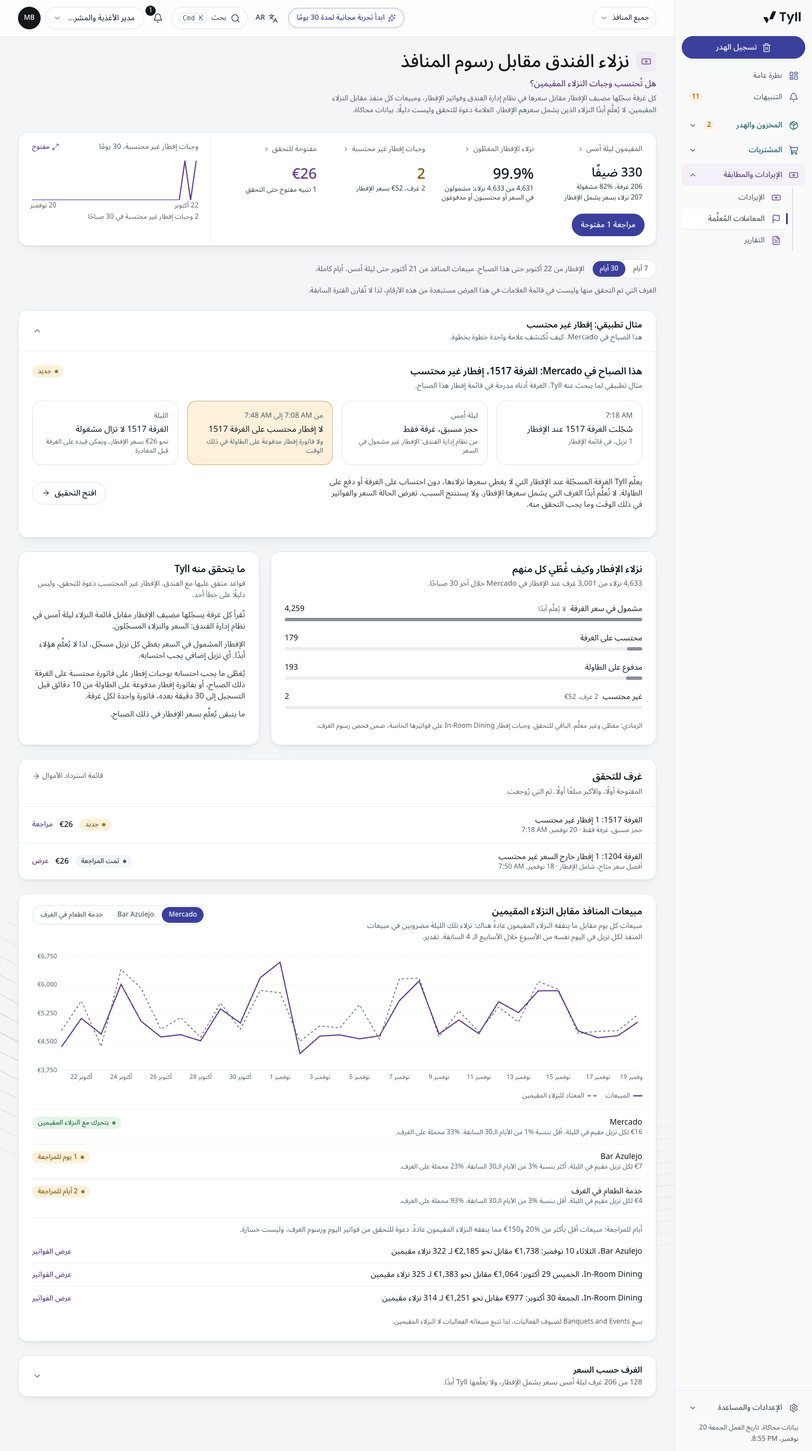
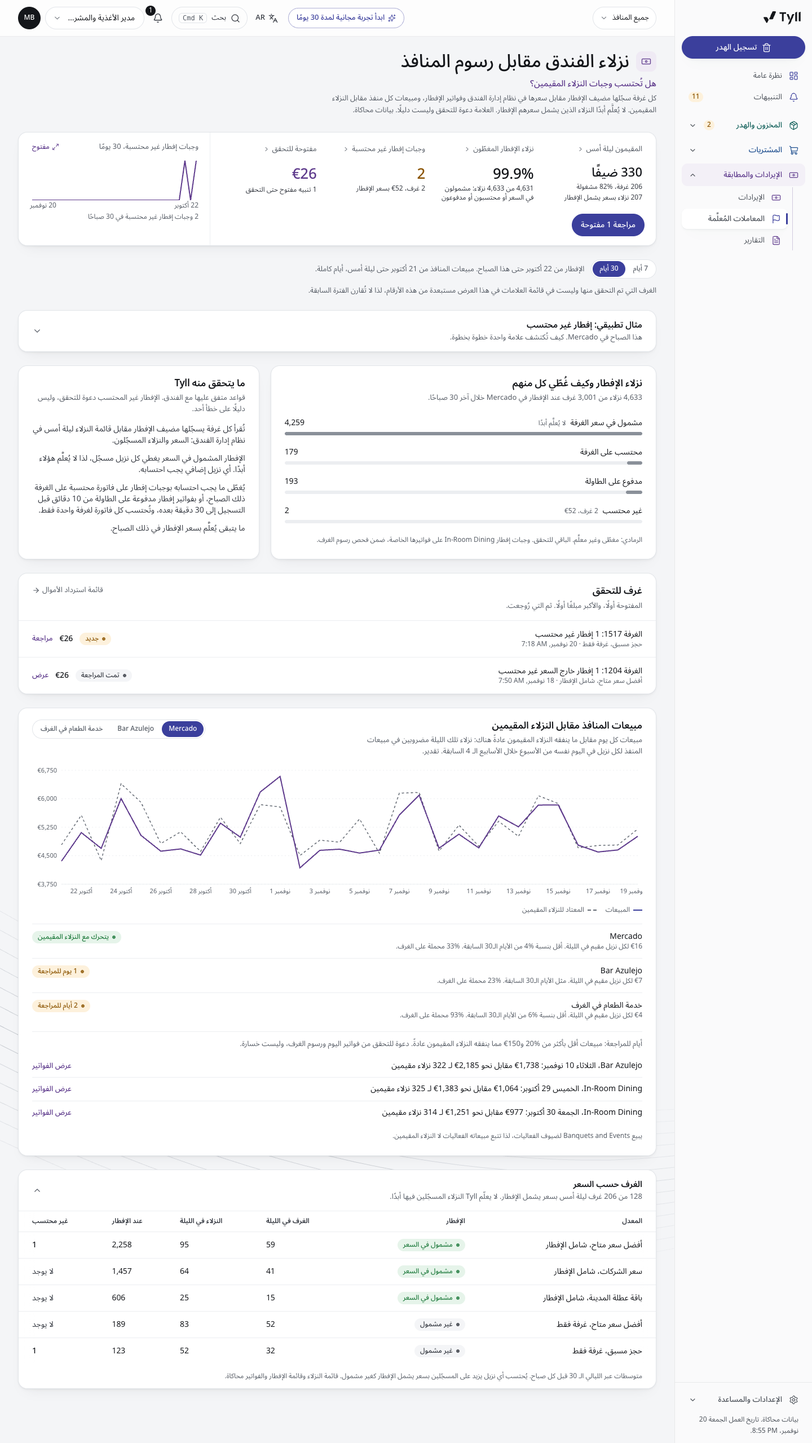
Feature 7: review fixes, outlet period before from the first day with sales, guests of one room paying separately, See the bills on one outlet, clearer rate headline and empty state

diff --git a/src/lib/__tests__/guests.test.ts b/src/lib/__tests__/guests.test.ts
@@ -23,7 +23,7 @@ const { snapshotFor } = await import("../server/snapshot");
 const { OUTLETS, PROPERTIES, userById } = await import("../data/catalog");
 const { can } = await import("../domain/access");
 const { activeItem } = await import("../nav");
-const { DEMO_TODAY, addDays, eachDay, rel } = await import("../util");
+const { DATA_START, DEMO_TODAY, addDays, eachDay, rel } = await import("../util");
 type Order = import("../types").Order;
 type InHouseRoom = import("../types").InHouseRoom;
 type BreakfastVisit = import("../types").BreakfastVisit;
@@ -91,6 +91,22 @@ describe("the breakfast rule", () => {
     expect(two.get("BF-MER-T-002")).toMatchObject({ paid: 0, notCharged: 2 });
   });
 
+  it("lets guests of one room pay separately: two bills for 1 paid at the table cover a room of 2", () => {
+    const one = (id: string, openMin: number) => bill({ id, payment: "card", room: undefined, openMin, units: 1 });
+    const m = match([visit()], [stay()], [one("MER-T-001", T(8, 2)), one("MER-T-002", T(8, 6))]);
+    expect(m).toMatchObject({ paid: 2, notCharged: 0 });
+    expect([...m.bills].sort()).toEqual(["MER-T-001", "MER-T-002"]);
+    expect(G.detectBreakfastNotCharged([visit()], [stay()], [one("MER-T-001", T(8, 2)), one("MER-T-002", T(8, 6))])).toEqual([]);
+    // A bill another room needed exactly stays with that room: the second guest is flagged, and the bill is named as matched.
+    const rooms = [visit(), visit({ id: "BF-MER-T-002", room: "1610", guests: 1, min: T(8, 6) })];
+    const both = G.matchBreakfast(rooms, [stay(), stay({ room: "1610", guests: 1 })], [one("MER-T-001", T(8, 1)), one("MER-T-002", T(8, 6))]);
+    expect(both.get("BF-MER-T-002")).toMatchObject({ paid: 1, notCharged: 0, bills: ["MER-T-002"] });
+    expect(both.get("BF-MER-T-001")).toMatchObject({ paid: 1, notCharged: 1, bills: ["MER-T-001"] });
+    const flag = G.detectBreakfastNotCharged(rooms, [stay(), stay({ room: "1610", guests: 1 })], [one("MER-T-001", T(8, 1)), one("MER-T-002", T(8, 6))]);
+    expect(flag.map((e) => e.id)).toEqual(["EX-BF-MER-T-001"]);
+    expect(G.nearbyBreakfastFact(flag[0].breakfast!)).toBe("1 breakfast bill was paid at the table from 7:50 AM to 8:30 AM, and it is matched to another room on the breakfast list.");
+  });
+
   it("gives a bill for exactly the breakfasts left before a nearer one for a different number", () => {
     const rooms = [visit({ guests: 1 }), visit({ id: "BF-MER-T-002", room: "1610", guests: 2, min: T(8, 2) })];
     const bills = [bill({ id: "MER-T-001", payment: "card", room: undefined, openMin: T(8, 3), units: 2 }), bill({ id: "MER-T-002", payment: "card", room: undefined, openMin: T(8, 9), units: 1 })];
@@ -112,6 +128,12 @@ describe("the breakfast rule", () => {
     expect(match([visit()], [stay({ room: "1999" })], [])).toMatchObject({ rate: null, included: 0, notCharged: 2 });
     // Tonight's list is not last night's.
     expect(match([visit()], [stay({ date: DAY, rate: "BAR-BB" })], [])).toMatchObject({ rate: null, notCharged: 2 });
+  });
+
+  it("leaves no bill paid at the table near a flagged room that no room took", () => {
+    for (const e of d0.exceptions.filter((x) => x.type === "breakfast_not_charged")) {
+      expect(e.breakfast!.nearby.every((b) => !!b.matchedTo), e.id).toBe(true);
+    }
   });
 
   it("adds up: guests at breakfast are in the rate, charged, paid or not charged", () => {
@@ -353,6 +375,30 @@ describe("outlet sales against the guests in house", () => {
       expect(o.below).toBe(rows.filter((x) => x.below).length);
     }
     expect(r.belowDays.every((x) => x.below && x.date >= r.outletFrom)).toBe(true);
+  });
+
+  it("compares with the 30 days before from the first day with sales on record, never the empty night before it", () => {
+    const r = guestsCheckFor(fnb, {});
+    if (!r.ok) throw new Error(r.error);
+    expect(addDays(r.outletFrom, -30) < DATA_START).toBe(true);
+    expect(r.outletBeforeFrom).toBe(DATA_START);
+    const before = eachDay({ from: DATA_START, to: addDays(r.outletFrom, -1) });
+    // The in-house list holds the night before the data starts, with guests and no bills: it is left out.
+    expect(G.guestsOn(d0.stays, addDays(DATA_START, -1))).toBeGreaterThan(0);
+    expect(d0.orders.some((o) => o.date < DATA_START)).toBe(false);
+    for (const o of r.outlets) {
+      const rows = G.outletDays(d0.orders, d0.stays, [o.outletId], before);
+      expect(rows.every((x) => x.sales > 0), o.outletId).toBe(true);
+      expect(o.guestNightsBefore).toBe(rows.reduce((t, x) => t + x.guests, 0));
+      expect(o.salesBefore).toBeCloseTo(rows.reduce((t, x) => t + x.sales, 0), 2);
+    }
+    // Bar Azulejo sold a little less per guest in house than in the 30 days before; counting the empty night read as up.
+    const bar = r.outlets.find((o) => o.outletId === "lis-lobby")!;
+    expect(bar.sales / bar.guestNights).toBeLessThan(bar.salesBefore / bar.guestNightsBefore);
+    // The 7 day view is the same length before, well inside the data.
+    const w = guestsCheckFor(fnb, { days: "7" });
+    if (!w.ok) throw new Error(w.error);
+    expect(w.outletBeforeFrom).toBe(addDays(w.outletFrom, -7));
   });
 });
 

diff --git a/src/components/money/guests.tsx b/src/components/money/guests.tsx
@@ -11,6 +11,7 @@ import { BarList, StripTrend, TrendChart } from "@/components/charts";
 import { Section } from "@/components/disclosure";
 import { Badge, Button, EmptyState, Note, Panel, Segmented, Skeleton, SummaryBar, TableWrap, Td, Th, WidgetError, cn, linkButton, rowClass, textLink } from "@/components/ui";
 import { outletLabel } from "@/lib/data/catalog";
+import { canSeeOutlet } from "@/lib/domain/access";
 import { rateName } from "@/lib/domain/guests";
 import { exceptionInSel } from "@/lib/domain/metrics";
 import { versus } from "@/lib/domain/trends";
@@ -38,7 +39,7 @@ function shareVersus(now: number, before: number | null, period: string): { text
 export function HotelGuests() {
   const router = useRouter();
   const params = useSearchParams();
-  const { sel, money } = useView();
+  const { sel, money, user } = useView();
   const all = useInvestigations();
   const days = params.get("days") === "7" ? 7 : 30;
   const { data, error } = useApi<GuestsCheck>(`/api/money/guests?days=${days}&outlets=${sel.outletIds.join(",")}`);
@@ -157,7 +158,7 @@ export function HotelGuests() {
               <ul className="space-y-3 text-sm text-graphite">
                 <li>Each room the breakfast host ticks in is read against last night&rsquo;s in-house list in the PMS: the rate, and the guests registered.</li>
                 <li>Breakfast in the rate covers every registered guest, so those guests are never flagged. A guest beyond them is to charge.</li>
-                <li>{`To charge is covered by breakfasts on a bill charged to the room that morning, or a breakfast bill paid at the table from ${R.paidBefore} minutes before the tick to ${R.paidAfter} minutes after, one bill per room.`}</li>
+                <li>{`To charge is covered by breakfasts on a bill charged to the room that morning, or by breakfast bills paid at the table from ${R.paidBefore} minutes before the tick to ${R.paidAfter} minutes after, each bill counted for one room only.`}</li>
                 <li>Whatever is left is flagged, at the breakfast price that morning.</li>
               </ul>
             </Panel>
@@ -194,7 +195,9 @@ export function HotelGuests() {
           </div>
         </>
       ) : (
-        <EmptyState title="Breakfast is served at Mercado">Choose Mercado in the outlet selector to see the breakfast list against the rooms&rsquo; rates. Outlet sales against the guests in house are below.</EmptyState>
+        canSeeOutlet(user, R.breakfastOutletId)
+          ? <EmptyState title={`Breakfast is served at ${outletLabel(R.breakfastOutletId)}`}>{`Choose ${outletLabel(R.breakfastOutletId)} in the outlet selector to see the breakfast list against the rooms’ rates. Outlet sales against the guests in house are below.`}</EmptyState>
+          : <EmptyState title={`Breakfast is checked at ${outletLabel(R.breakfastOutletId)}`}>Outlet sales against the guests in house are below.</EmptyState>
       )}
 
       {compared.length > 0 && (
@@ -234,7 +237,7 @@ export function HotelGuests() {
                   {belowShown.map((d) => (
                     <li key={`${d.outletId}-${d.date}`} className="flex flex-col gap-1 py-2.5 sm:flex-row sm:items-baseline sm:justify-between sm:gap-4">
                       <span className="min-w-0 text-sm text-ink">{`${outletLabel(d.outletId)}, ${fmtDate(d.date, true)}: ${money(d.sales)} against about ${money(d.expected ?? 0)} for ${guests(d.guests)} in house`}</span>
-                      <Link prefetch={false} href={`/money?tab=orders&date=${d.date}`} className={cn(textLink, "shrink-0")}>See the bills</Link>
+                      <Link prefetch={false} href={`/money?tab=orders&date=${d.date}&outlet=${d.outletId}&from=guests`} className={cn(textLink, "shrink-0")}>See the bills</Link>
                     </li>
                   ))}
                 </ul>
@@ -247,7 +250,7 @@ export function HotelGuests() {
       )}
 
       <div id="guests-rates" className="scroll-mt-24">
-        <Section id="guests.rates" forceOpen={params.get("open") === "rates"} flush title="Rooms by rate" summary={`${fmtNum(ln.withBreakfast)} of ${rooms(ln.rooms)} last night on a rate with breakfast, which Tyll never flags.`}>
+        <Section id="guests.rates" forceOpen={params.get("open") === "rates"} flush title="Rooms by rate" summary={`${fmtNum(ln.withBreakfast)} of ${rooms(ln.rooms)} last night on a rate with breakfast. Tyll never flags their registered guests.`}>
           <ul className="divide-y divide-hair sm:hidden">
             {data.rates.map((r) => (
               <li key={r.code} className="px-5 py-3.5">

diff --git a/src/app/money/page.tsx b/src/app/money/page.tsx
@@ -319,9 +319,14 @@ function Orders() {
   // A tag only where there is a case to open.
   const investigations = useInvestigations();
   const cases = useMemo(() => new Set(investigations.map((i) => i.id)), [investigations]);
-  const { sel } = useView();
+  const { sel, user } = useView();
+  const params = useSearchParams();
   // A link can name a day (`&date=`, from hotel guests against outlet charges): it opens on that day, even outside the period.
-  const asked = useSearchParams().get("date");
+  const asked = params.get("date");
+  // ...and an outlet (`&outlet=`): the list opens on that outlet's bills only, when this role may see it.
+  const askedOutlet = params.get("outlet");
+  const [only, setOnly] = useState<string | null>(askedOutlet && canSeeOutlet(user, askedOutlet) ? askedOutlet : null);
+  const fromGuests = params.get("from") === "guests";
   const wanted = asked && /^\d{4}-\d{2}-\d{2}$/.test(asked) && asked >= DATA_START && asked <= DEMO_TODAY ? asked : null;
   const days = useMemo(() => {
     const list = eachDay(sel.range).reverse();
@@ -337,11 +342,11 @@ function Orders() {
   const list = useMemo(() => {
     const term = q.trim().toLowerCase();
     return (fetched?.orders ?? [])
-      .filter((o) => sel.outletIds.includes(o.outletId))
+      .filter((o) => (only ? o.outletId === only : sel.outletIds.includes(o.outletId)))
       .map((o) => ({ o, t: orderTotals(o), flag: detectOrderException(o) }))
       .filter(({ o, t }) => (!onlyChanged || o.voided || t.original - t.net > 0.005) && (!term || `${o.id} ${o.table} ${staffById[o.staffId]?.name ?? ""}`.toLowerCase().includes(term)))
       .sort((a, b) => b.o.openMin - a.o.openMin);
-  }, [fetched, sel.outletIds, onlyChanged, q]);
+  }, [fetched, sel.outletIds, only, onlyChanged, q]);
   return (
     <Panel title="Order history" description="The complete record of each order: created, items entered, tickets sent, changes, final bill and payment." flush>
       <div className="flex flex-wrap items-end gap-2 px-5 pb-4 sm:px-6">
@@ -355,6 +360,13 @@ function Orders() {
           <Search size={15} className="pointer-events-none absolute start-3.5 top-1/2 -translate-y-1/2 text-steel" aria-hidden />
           <input value={q} onChange={(e) => setQ(e.target.value)} placeholder="Order number, table or login" aria-label="Search orders" className="h-10 w-full rounded-full border border-line bg-paper ps-9 pe-3 text-sm placeholder:text-fog hover:border-fog" />
         </div>
+        {(only || fromGuests) && (
+          <p className="flex w-full flex-wrap items-center gap-x-4 gap-y-1 text-[13px] text-steel">
+            {only && <span>{`${outletLabel(only)} only.`}</span>}
+            {only && <button type="button" className={textLink} onClick={() => { setOnly(null); setShown(40); }}>Show every outlet</button>}
+            {fromGuests && <Link prefetch={false} href="/money?tab=guests" className={textLink}>Back to hotel guests against outlet charges</Link>}
+          </p>
+        )}
       </div>
       {fetched === undefined ? <div className="px-5 pb-6 sm:px-6"><EmptyState title="Loading orders" /></div> : list.length === 0 ? <div className="px-5 pb-6 sm:px-6"><EmptyState title="No orders match">Clear the search, or untick the filter to see every order of the day.</EmptyState></div> : (
         <>

diff --git a/src/lib/domain/guests.ts b/src/lib/domain/guests.ts
@@ -89,7 +89,8 @@ const toCharge = (v: BreakfastVisit, stay: InHouseRoom | undefined) => {
  * Matches every room ticked in at breakfast with the room's rate and the breakfast bills of that morning, in a fixed order:
  * guests the rate covers, then breakfasts charged to the room, then a bill paid at the table (no room) opened near the
  * tick: a bill for exactly the breakfasts still to charge first, then more, then fewer, the nearest first within each,
- * each bill serving one room. Whatever is left was not charged. A room that is not on last night's
+ * each bill serving one room. A room with breakfasts still to charge then takes further bills no room took (guests of
+ * one room paying separately). Whatever is left was not charged. A room that is not on last night's
  * list has no rate, so every guest is to charge.
  */
 export function matchBreakfast(visits: readonly BreakfastVisit[], stays: readonly InHouseRoom[], orders: readonly Order[]): Map<string, BreakfastMatch> {
@@ -143,6 +144,26 @@ export function matchBreakfast(visits: readonly BreakfastVisit[], stays: readonl
       m.paid = paid;
       m.bills.push(o.id);
       left.set(v.id, left.get(v.id)! - paid);
+    }
+    // Guests of one room may pay separately: a room with breakfasts still to charge takes further bills paid at the table
+    // in its window that no room took, in the same order (exact fit for what is left first, then nearest), so a room is
+    // flagged only for what no bill covers. No bill taken above changes hands.
+    for (;;) {
+      let best: { v: BreakfastVisit; o: Order; fit: number; gap: number } | null = null;
+      for (const { v, o } of pairs) {
+        const need = left.get(v.id)!;
+        if (!need || taken.has(o.id)) continue;
+        const units = breakfastUnits(o);
+        const c = { v, o, fit: units === need ? 0 : units > need ? 1 : 2, gap: Math.abs(o.openMin - v.min) };
+        if (!best || c.fit < best.fit || (c.fit === best.fit && c.gap < best.gap)) best = c;
+      }
+      if (!best) break;
+      taken.add(best.o.id);
+      const m = out.get(best.v.id)!;
+      const paid = Math.min(left.get(best.v.id)!, breakfastUnits(best.o));
+      m.paid += paid;
+      m.bills.push(best.o.id);
+      left.set(best.v.id, left.get(best.v.id)! - paid);
     }
     for (const v of list) out.get(v.id)!.notCharged = left.get(v.id)!;
   }
@@ -213,7 +234,9 @@ export function nearbyBreakfastFact(e: Pick<BreakfastEvidence, "nearby" | "notCh
   const taken = e.nearby.filter((b) => b.matchedTo).length;
   const opened = `${n} breakfast ${n === 1 ? "bill was" : "bills were"} paid at the table ${window}`;
   if (taken === n) return `${opened}, ${n === 1 ? "and it is" : "and all of them are"} matched to another room on the breakfast list.`;
-  return `${opened}: ${taken} matched to another room on the breakfast list, the others for fewer breakfasts than this room had.`;
+  // A room still to charge takes every bill in its window that no room took, so the others are matched too. Kept so a
+  // sentence never claims more than the evidence holds.
+  return `${opened}: ${taken} matched to another room on the breakfast list.`;
 }
 
 /** One flag per room with breakfasts not charged, valued at the breakfast price that morning. */

diff --git a/src/lib/server/guests.ts b/src/lib/server/guests.ts
@@ -56,7 +56,7 @@ export interface RateRow {
 
 export interface OutletRow {
   outletId: string;
-  /** Sales in the period and the period before, and the guest nights they are set against. */
+  /** Sales in the period and the period before (from the first day with sales on record at the earliest), and the guest nights they are set against. */
   sales: number;
   guestNights: number;
   salesBefore: number;
@@ -75,6 +75,8 @@ export interface GuestsCheck {
   /** Outlet days in the period, whole days to last night. */
   outletFrom: string;
   outletTo: string;
+  /** The first outlet day of the period before: the same length earlier, never before the first day with sales on record. */
+  outletBeforeFrom: string;
   /** The breakfast outlet, when it is in view. */
   breakfastOutlet: string | null;
   lastNight: { date: string; rooms: number; guests: number; occupancy: number; withBreakfast: number; guestsWithBreakfast: number };
@@ -177,7 +179,10 @@ export function guestsCheckFor(user: User, q: { days?: string | null; outlets?: 
   const outletTrend = outletDays(d.orders, d.stays, compared, eachDay({ from: addDays(outletTo, -29), to: outletTo }));
   const span = (a: string, b: string) => outletDays(d.orders, d.stays, compared, eachDay({ from: a, to: b }));
   const now = span(outletFrom, outletTo);
-  const was = span(addDays(outletFrom, -days), addDays(outletFrom, -1));
+  // The period before starts no earlier than the first day with sales on record: the in-house list holds the night before
+  // the data starts, which has guests and no bills, and would pull the earlier sales per guest down.
+  const wasFrom = addDays(outletFrom, -days) < DATA_START ? DATA_START : addDays(outletFrom, -days);
+  const was = span(wasFrom, addDays(outletFrom, -1));
   const outletRows: OutletRow[] = compared.map((outletId) => {
     const a = now.filter((x) => x.outletId === outletId);
     const b = was.filter((x) => x.outletId === outletId);
@@ -186,5 +191,5 @@ export function guestsCheckFor(user: User, q: { days?: string | null; outlets?: 
   });
   const belowDays = now.filter((x) => x.below).sort((a, b) => (b.expected! - b.sales) - (a.expected! - a.sales));
 
-  return { ok: true, days, from, to, outletFrom, outletTo, breakfastOutlet, lastNight, total, before, unlisted, trend, rates, cases: rowsOut, story, outlets: outletRows, outletTrend, belowDays, rules: GUEST_RULES };
+  return { ok: true, days, from, to, outletFrom, outletTo, outletBeforeFrom: wasFrom, breakfastOutlet, lastNight, total, before, unlisted, trend, rates, cases: rowsOut, story, outlets: outletRows, outletTrend, belowDays, rules: GUEST_RULES };
 }

diff --git a/OVERNIGHT_LOG.md b/OVERNIGHT_LOG.md
@@ -93,7 +93,7 @@ Branch `feature/overnight-checks`, started from `feature/visit-tracking` (1fdbe6
 | 4 | Empty bottle scan | DONE | Log: `/waste` (card "Empty wine and spirit bottles" under Log waste; u-fnb, also gm, owner, restaurant manager for own outlets) and the staff app `/staff?do=bottle` (tile "Empty bottle", u-emp, two taps: tile, bottle). Results: `/drinks?open=empties` (Over pouring, Section "Empty bottle scans", opens with the story's scans shown; u-fnb, gm, fc, owner, restaurant manager). Not shown to chef, purchasing, finance (no permission; API 403). Story: Bar Azulejo has scanned every empty since 17 days ago, Mercado since 9 days ago; last Friday's late shift at Bar Azulejo: 7 empties of house red scanned, 1 glass sold, about EUR 315 not billed (the existing house red worked example, now seen in the scans). Review fixes: empties can be logged only at the outlets that scan (Mercado, Bar Azulejo; In-Room Dining answers 409), a stray scan never switches an outlet, the toast says it counts only when the server says so, scans show time and method only (no job), every qualifying shift is listed. Second review: patterns and "Who was on" use closed days only, so a tap today moves today's figures and never the story (Sofia Rahman still stands out, 8 patterns), the open bottle runs from the day an outlet started scanning, the scan list reads in time order, the outlet select has its own row on phones. Screenshots `overnight-screenshots/04-empty-bottles-*.png`. See "Feature 4", "Review fixes (feature 4)" and "Review fixes, second round (feature 4)" below. |
 | 5 | Till rule flags | DONE | `/money?tab=till` ("Till rule check", in the Flagged transactions item's `also`, linked from `/money?tab=flags`; u-fnb, also gm, fc, owner, restaurant managers for their own outlets; chef, purchasing and staff are sent home, API 403). `&open=example` opens the worked example, `&open=bottles` the premium bottles. Story: last night at Mercado a table of 3 paid €124 cash at 10:07 PM, the bill was reopened at 10:31 PM under the same login, 2 lamb chops (marked ready at 9:34 PM) came off, closed again at €56 with no approval: €68, case `EX-MER-<yesterday MMDD>-301`; Mercado's lamb count agrees (usage above sales, 550 g, linked on the case). Second story: Douro reserve red at Bar Azulejo, 11 bottles issued in the 7 days to yesterday against about 6 a week before, 31 of about 55 glasses billed as reserve while house wine went on the bills, €154 to 182 an estimate, case `EX-MIX-AZU-RESERVE-<yesterday MMDD>`. Two checked examples from two days ago: salmon at a price changed by hand at In-Room Dining (€30, confirmed loss) and 12 cappuccinos on a bill for 2 guests at Bar Azulejo (€50; colleagues had joined the table, everything was served, a legitimate correction). Review fixes: an item rung twice is the guest's money, so it is never money lost or recovered (Overview money lost €10,570 on 20 Nov, was €10,701); the duplicate rule counts only the entries rung together; tips after payment are worded by how the bill was paid; "N of M looked at" counts bills and leaves out bills whose flag the public demo does not list. Screenshots `overnight-screenshots/05-till-rules-*.png`. See "Feature 5" and "Review fixes (feature 5)" below. |
 | 6 | Booked against billed covers | DONE | `/money?tab=covers` (Revenue section, row "Booked against billed covers" right under Outlet performance on `/money` and `/money?tab=outlets`; in the Revenue item's `also`, no new menu item). Query: `days=7` (30 is the default), `service=lunch` (dinner is the default), `open=example` opens the worked example. Roles: new permission `covers.view` (owner, gm, controller, fnb_director, restaurant_manager for own outlets; u-fnb and u-fc in the public demo); chef, purchasing and staff are sent home (API 403). Flag type `seated_no_bill` "Seated table with no bill" in the flags list, Flagged by type, What Tyll checks, per 1,000 orders (once each, no bill), Money Back List (`/investigations?type=seated_no_bill`), Alerts and Overview "Needs you today" ("an estimate at the outlet's spend per guest"). Story: last night at Mercado a booking for 4, made by phone by the guest in room 1108, seated at Table 31 at 8:12 PM and finished at 10:04 PM; no bill at Table 31 from 7:57 PM to 10:04 PM, and none for 3 to 5 guests nearby; about EUR 150 at the dinner spend per guest (an estimate), case `EX-BK-MER-<yesterday MMDD>-90`. Checked example two days ago at lunch (Table 12, booking for 4, closed legitimate: the guests joined colleagues and paid on their bill). Screenshots `overnight-screenshots/06-covers-*.png`. Review fixes: a bill for the party nearby that another booking already has is named on the case ("already matched to booking BK-..."), never described as missing; party sizes read as a run or a list; the chart stacks guests at a table with no bill (coloured) and guests who left early (grey); the share of booked guests billed compares with the earlier share in words; the case page shows the value in whole euros as an estimate; in the public demo the period before is not compared when tables were left out of it. See "Feature 6" and "Review fixes (feature 6)" below. |
-| 7 | Hotel guests against outlet charges | DONE | `/money?tab=guests` (Flagged transactions, in the flags item's `also`, row "Hotel guests against outlet charges" under Room charge check on `/money?tab=flags`; no new menu item). `&open=example` opens the worked example, `&open=rates` the rooms by rate, `&days=7` the 7 day view. Roles: new permission `guests.view` (owner, gm, controller, fnb_director, restaurant_manager for own outlets; u-fnb and u-fc in the public demo); chef, purchasing and staff are sent home (API 403). Flag type `breakfast_not_charged` "Breakfast not charged" in the flags list, Flagged by type, What Tyll checks, per 1,000 orders, Money Back List (`/investigations?type=breakfast_not_charged`), Alerts and the Overview. Story: this morning at Mercado the breakfast host ticked in room 1517, one guest on "Advance purchase, room only", nothing charged to the room and no breakfast bill paid at the table near the time; the room is in house tonight, so it can go on the room before check-out: EUR 26, case `EX-BF-MER-<today MMDD>-900`. Checked example two days ago: room 1204, registered for two on a rate with breakfast, three came down, the third posted to the room (recovered). Guests on a rate with breakfast (about 6 rooms in 10) are never flagged. Screenshots `overnight-screenshots/07-guests-vs-charges-*.png`. See "Feature 7" below. |
+| 7 | Hotel guests against outlet charges | DONE | `/money?tab=guests` (Flagged transactions, in the flags item's `also`, row "Hotel guests against outlet charges" under Room charge check on `/money?tab=flags`; no new menu item). `&open=example` opens the worked example, `&open=rates` the rooms by rate, `&days=7` the 7 day view. Roles: new permission `guests.view` (owner, gm, controller, fnb_director, restaurant_manager for own outlets; u-fnb and u-fc in the public demo); chef, purchasing and staff are sent home (API 403). Flag type `breakfast_not_charged` "Breakfast not charged" in the flags list, Flagged by type, What Tyll checks, per 1,000 orders, Money Back List (`/investigations?type=breakfast_not_charged`), Alerts and the Overview. Story: this morning at Mercado the breakfast host ticked in room 1517, one guest on "Advance purchase, room only", nothing charged to the room and no breakfast bill paid at the table near the time; the room is in house tonight, so it can go on the room before check-out: EUR 26, case `EX-BF-MER-<today MMDD>-900`. Checked example two days ago: room 1204, registered for two on a rate with breakfast, three came down, the third posted to the room (recovered). Guests on a rate with breakfast (about 6 rooms in 10) are never flagged. Screenshots `overnight-screenshots/07-guests-vs-charges-*.png`. Review fixes done (period before from the first day with sales, guests of one room paying separately, See the bills on the one outlet). See "Feature 7" and "Review fixes (feature 7)" below. |
 | 8 | Save everything to the server | to do | |
 | 9 | First real POS and PMS adapters | to do | |
 
@@ -465,4 +465,19 @@ All new text is in German, Italian and Arabic (60 entries, every sentence form `
 **Demo script:** Flagged transactions > Hotel guests against outlet charges. "Are in-house guests' meals being charged?" 330 guests in house last night, 99.9% of breakfast guests in the rate, charged or paid. Open the worked example: room 1517 ticked in this morning, advance purchase room only, nothing charged, still in house tonight. Open the investigation: the rate, the empty window, the step to post it before check-out; close it as Revenue recovered. Back on the page, open Rooms by rate: 128 of 206 rooms are on a rate with breakfast and Tyll never flags them. Then Outlet sales against the guests in house: Bar Azulejo on Tue 10 Nov sold EUR 1,738 against about EUR 2,185 for 322 guests in house; See the bills.
 
 **Next:** feature 8, Save everything to the server.
+
+## Review fixes (feature 7)
+
+Six findings (one medium, five low). Five fixed; one needed no code change, as the reviewer said.
+
+- **Outlet sales per guest against the 30 days before counted an empty night (medium). Fixed.** Verified first with jiti on 20 Nov: the 30 day view's period before ran from 21 Sep, the night before the data starts, which has 301 guests on the in-house list and no bills. `guestsCheckFor` now starts the period before no earlier than `DATA_START` (`outletBeforeFrom` in the response). On 20 Nov: Mercado 4.4% less (was 1.2%), Bar Azulejo 0.4% less, shown as "Same as in the 30 days before" (was "2.9% more", the wrong direction), In-Room Dining 6.0% less (was 2.8%). The 7 day view is unchanged. I took the clamp, not "only days with sales": a real day with no sales should still count against its guests. Test: on the test date the 30 day period before starts at `DATA_START`, the night before it has guests and no bills, every day counted has sales, guest nights and sales before equal the days', Bar Azulejo compares down, and the 7 day view keeps 7 days before.
+- **A room could take only one bill paid at the table (low). Fixed.** After the first pass (unchanged: exact fit first, then more, then fewer, nearest first, one room per bill), a room with breakfasts still to charge takes further bills in its window that no room took, exact fit for what is left first, then nearest. No bill already given changes hands, so this only ever removes a flag. On 20 Nov and on the test date the flags are identical before and after (14 and 10, same ids and values). Consequence: a flagged room never has an untaken bill near it, so the sentence "the others for fewer breakfasts than this room had" can no longer be true; the fallback now says only what the evidence holds ("{n} matched to another room on the breakfast list."). "What Tyll checks" now reads "or by breakfast bills paid at the table ..., each bill counted for one room only". Tests: two 1 breakfast bills cover a room of 2 (not flagged); a bill another room needed exactly stays with that room, the second guest is flagged and the bill is named as matched; on the whole dataset every bill near a flagged room is matched to a room.
+- **See the bills opened every outlet (low). Fixed.** The link is now `/money?tab=orders&date=<day>&outlet=<outlet>&from=guests`. All transactions opens on that outlet's bills only when the role may see the outlet (`canSeeOutlet`), with a line above the table: "Bar Azulejo only. Show every outlet. Back to hotel guests against outlet charges". The shell's one exit (`BackToMain`) is left as it is (it follows `lib/back.ts` for every page); the in-page link is the way back to the check. Bar Azulejo on Tue 10 Nov: 70 bills, not 200.
+- **Rooms by rate headline read as contradicted (low). Fixed:** "128 of 206 rooms last night on a rate with breakfast. Tyll never flags their registered guests."
+- **Empty state told the bar manager to choose Mercado (low). Fixed.** Only a role that may see Mercado gets "Choose Mercado in the outlet selector ..."; others get "Breakfast is checked at Mercado. Outlet sales against the guests in house are below." u-lby is not a public demo role (the screenshot script's role switch answers 403), so this is checked by type and code only, not a screenshot.
+- **Public demo usage variance keep rule (low). No change,** as the reviewer asked. Still in the morning report for the owner: the 13 open flags on 16, 17 and 20 Nov predate this feature and are for the polish pass.
+
+New text in German, Italian and Arabic (8 entries; 3 superseded entries removed). Arabic checked on the guests page and on All transactions with the outlet line.
+
+**Checks:** tsc clean; eslint 0 errors (2 known warnings); vitest 32 files, 444 passed (3 new); build passed (second run, as expected); preview server restarted. Screenshots re-taken and looked at: `07-guests-vs-charges-desktop.png` (now with Rooms by rate open: new headline, outlet rows "4% less", "Same as", "6% less"), `-ar.png`, `-phone.png`, `-see-bills-desktop.png` (Bar Azulejo only, 70 orders), `-see-bills-ar.png` (new).
 
